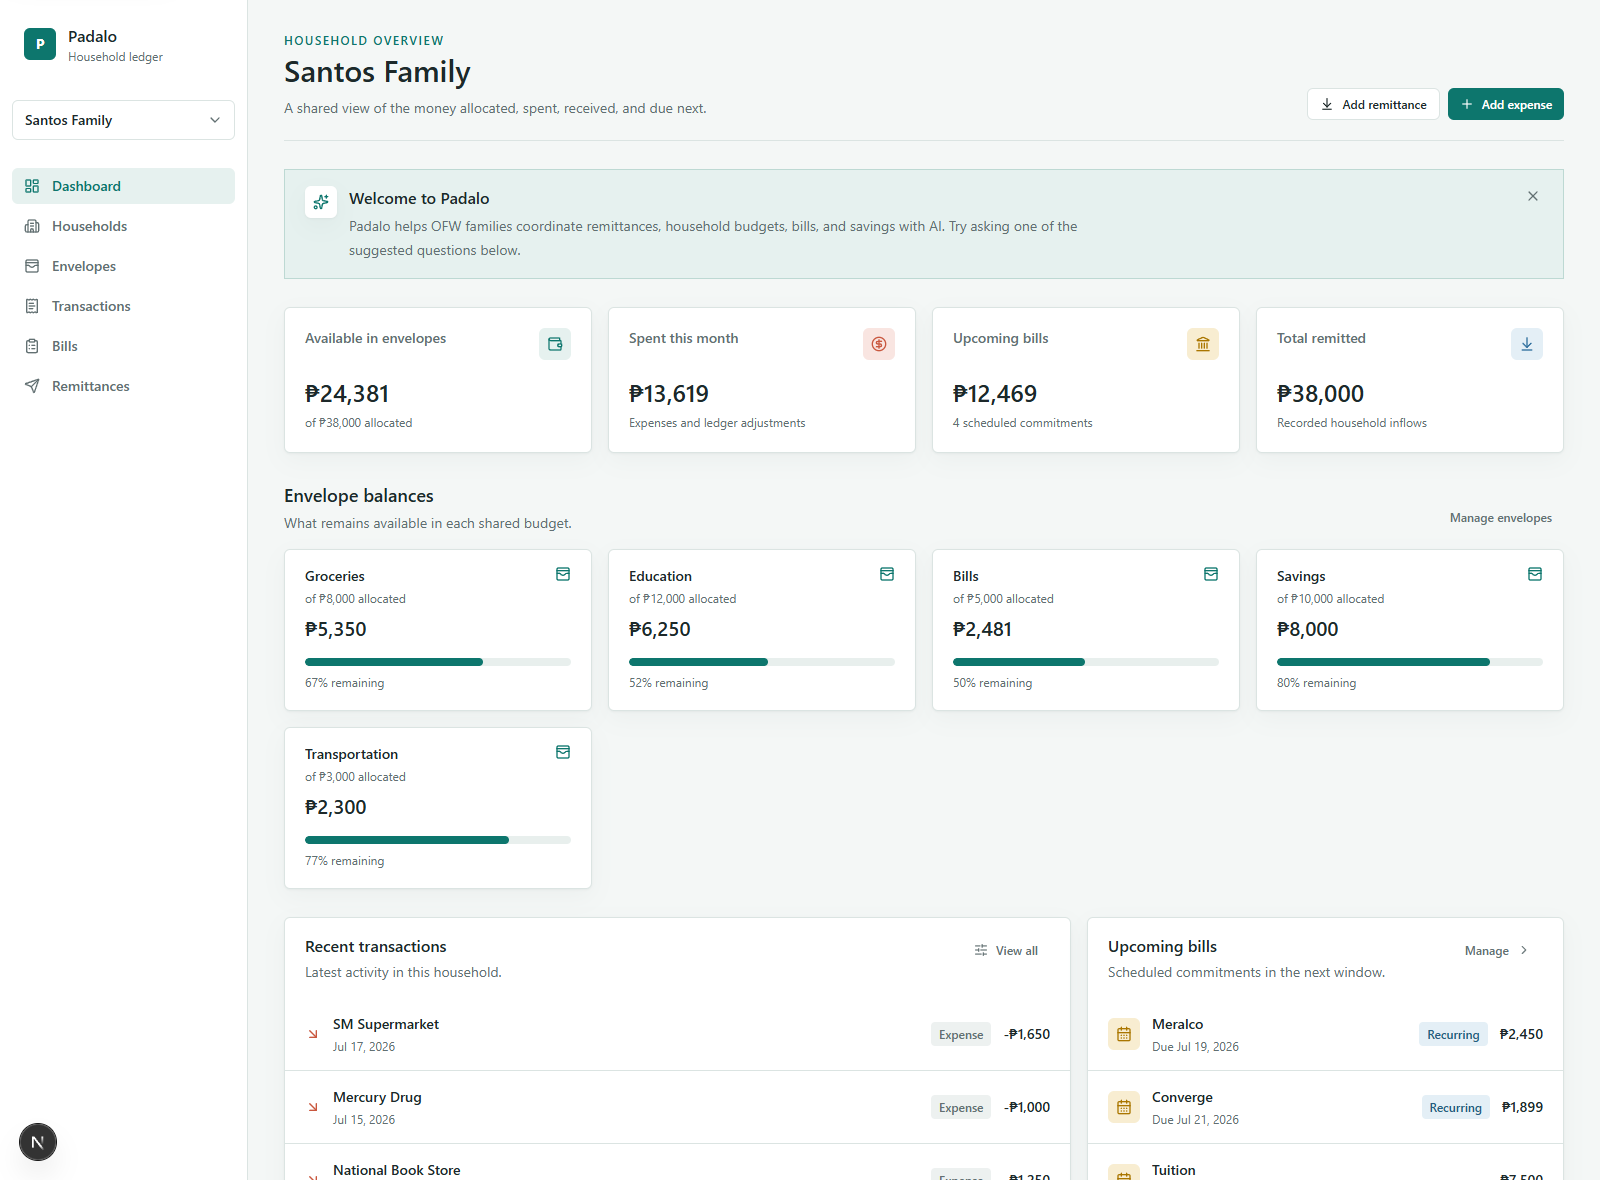
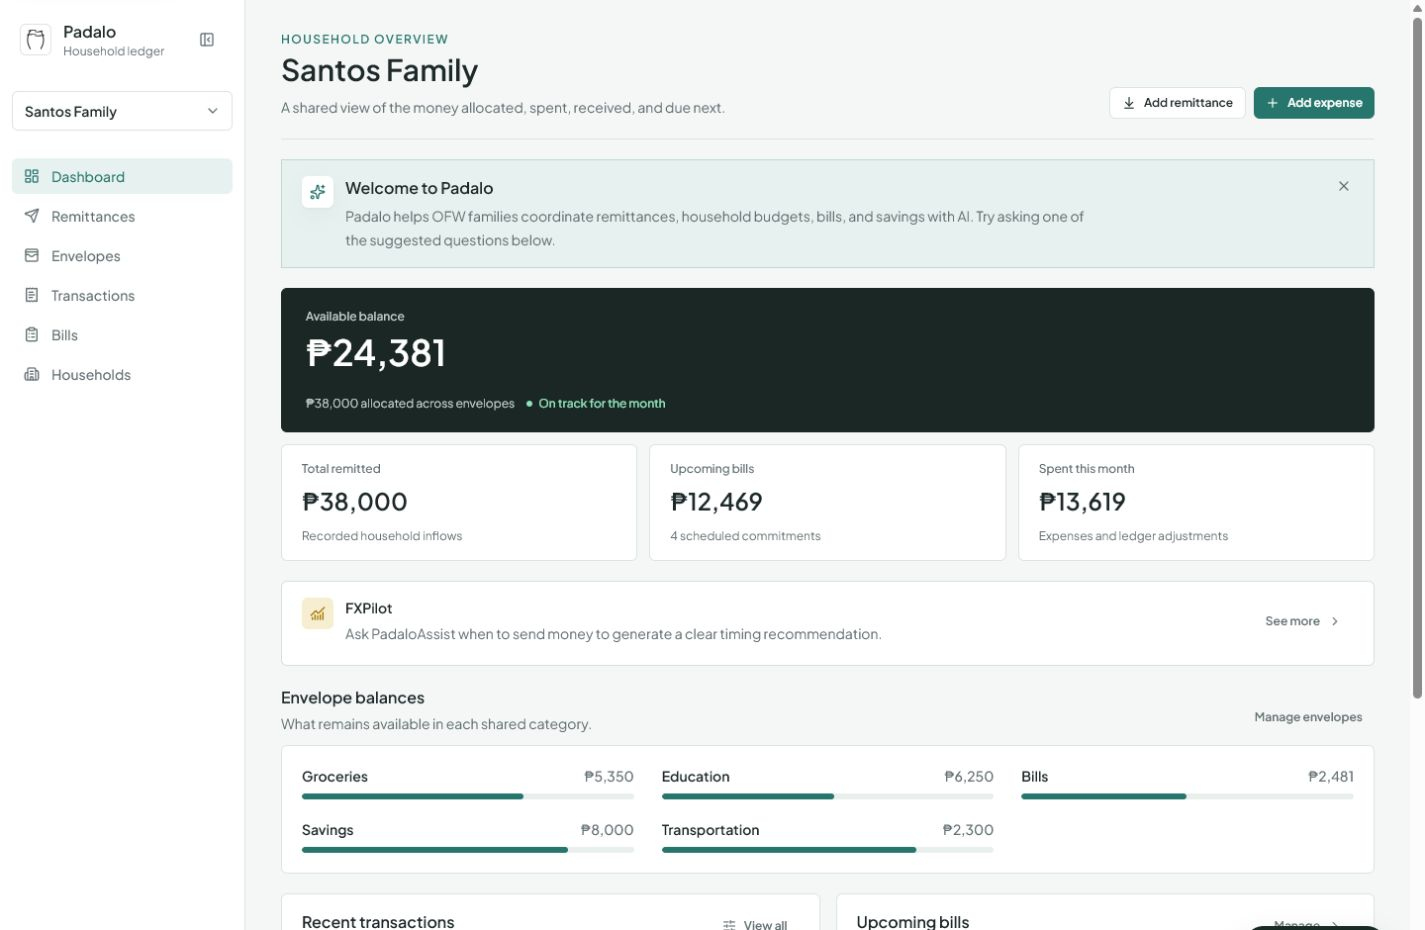
Fix Vercel monorepo deployment

diff --git a/apps/web/next-env.d.ts b/apps/web/next-env.d.ts
@@ -1,6 +1,6 @@
 /// <reference types="next" />
 /// <reference types="next/image-types/global" />
-/// <reference path="./.next-header-tighten-build/types/routes.d.ts" />
+/// <reference path="./.next/types/routes.d.ts" />
 
 // NOTE: This file should not be edited
 // see https://nextjs.org/docs/app/api-reference/config/typescript for more information.

diff --git a/README.md b/README.md
@@ -10,7 +10,7 @@
 ![Prophet](https://img.shields.io/badge/FXPilot-Prophet-0d766d)
 
 <p align="center">
-  <img src="apps/web/public/images/dashboard-overview.png" alt="Padalo Santos Family dashboard" width="900" />
+  <img src="apps/web/public/images/dashboard-live.png" alt="Current Padalo Santos Family dashboard" width="900" />
 </p>
 
 Padalo gives an Overseas Filipino Worker and their family one calm, shared picture of remittances,
@@ -45,13 +45,13 @@ foreign-exchange trading.
 
 ## Product Screens
 
-| Santos Family dashboard                                                   | FXPilot backtest                                                                              |
-| ------------------------------------------------------------------------- | --------------------------------------------------------------------------------------------- |
-| ![Santos Family dashboard](apps/web/public/images/dashboard-overview.png) | ![FXPilot Prophet and naive baseline MAE comparison](data/synthetic/fxpilot_backtest_mae.png) |
+| Santos Family dashboard                                                       | FXPilot backtest                                                                              |
+| ----------------------------------------------------------------------------- | --------------------------------------------------------------------------------------------- |
+| ![Current Santos Family dashboard](apps/web/public/images/dashboard-live.png) | ![FXPilot Prophet and naive baseline MAE comparison](data/synthetic/fxpilot_backtest_mae.png) |
 
-The dashboard screenshot is generated from the deterministic Santos scenario. The backtest chart is
-generated from the versioned synthetic provider history and is intentionally retained alongside its
-baseline comparison.
+The dashboard screenshot is captured from the current deterministic Santos Family demo. The backtest
+chart is generated from the versioned synthetic provider history and is intentionally retained alongside
+its baseline comparison.
 
 ## Architecture
 
@@ -206,7 +206,7 @@ install a Playwright browser or set `PLAYWRIGHT_CHROMIUM_EXECUTABLE`.
 
 The intended stack is:
 
-- **Vercel** for Next.js, using the committed root `vercel.json` workspace build.
+- **Vercel** for Next.js, using the committed `apps/web/vercel.json` workspace build.
 - **Render** for the Dockerized FastAPI service, with `/health` configured as the HTTP health check.
 - **Neon** for the production-like PostgreSQL database.
 

diff --git a/docs/deployment.md b/docs/deployment.md
@@ -51,12 +51,15 @@ The response must be `{"status":"ok","service":"padalo-api"}`.
 
 ## 3. Vercel Web App
 
-Deploy the repository root so npm workspaces can include `packages/shared`. The included
-`vercel.json` runs `npm ci`, builds only `@padalo/web`, and publishes `apps/web/.next`. Do not set
-`apps/web` as the Vercel Root Directory for this configuration because Vercel root isolation prevents
-the app from reading the shared workspace above it. Vercel's current monorepo guidance explains the
-root-directory and workspace behavior in its [monorepo documentation](https://vercel.com/docs/monorepos)
-and [build configuration reference](https://vercel.com/docs/builds/configure-a-build).
+In **Project Settings > Build and Deployment**, set **Root Directory** to `apps/web`. Keep
+**Include source files outside of the Root Directory** enabled so the app can resolve
+`packages/shared` from the monorepo. The app-local `apps/web/vercel.json` changes to the repository
+root to run `npm ci` and the workspace build, then publishes `.next` relative to the Vercel project
+root. This resolves to `apps/web/.next` exactly once.
+
+Do not set a custom Output Directory in the Vercel dashboard. The committed configuration owns it as
+`.next`; using `apps/web/.next` while the Root Directory is already `apps/web` produces the duplicated
+path error. Vercel's [monorepo guide](https://vercel.com/docs/monorepos), [monorepo FAQ](https://vercel.com/docs/monorepos/monorepo-faq), and [build configuration reference](https://vercel.com/docs/builds/configure-a-build) document this root-relative behavior.
 
 Set these Vercel environment variables:
 

diff --git a/docs/launch-readiness.md b/docs/launch-readiness.md
@@ -28,7 +28,7 @@
 
 - [x] FastAPI health endpoint remains available for Render.
 - [x] Docker honors the production `PORT` environment variable.
-- [x] Vercel workspace build configuration is committed.
+- [x] App-local Vercel workspace build configuration is committed.
 - [x] Playwright landing smoke coverage and screenshot capture support are included.
 - [x] Lint, typecheck, formatting, API tests, forecasting tests, end-to-end smoke test, and production
       build are run before submission.